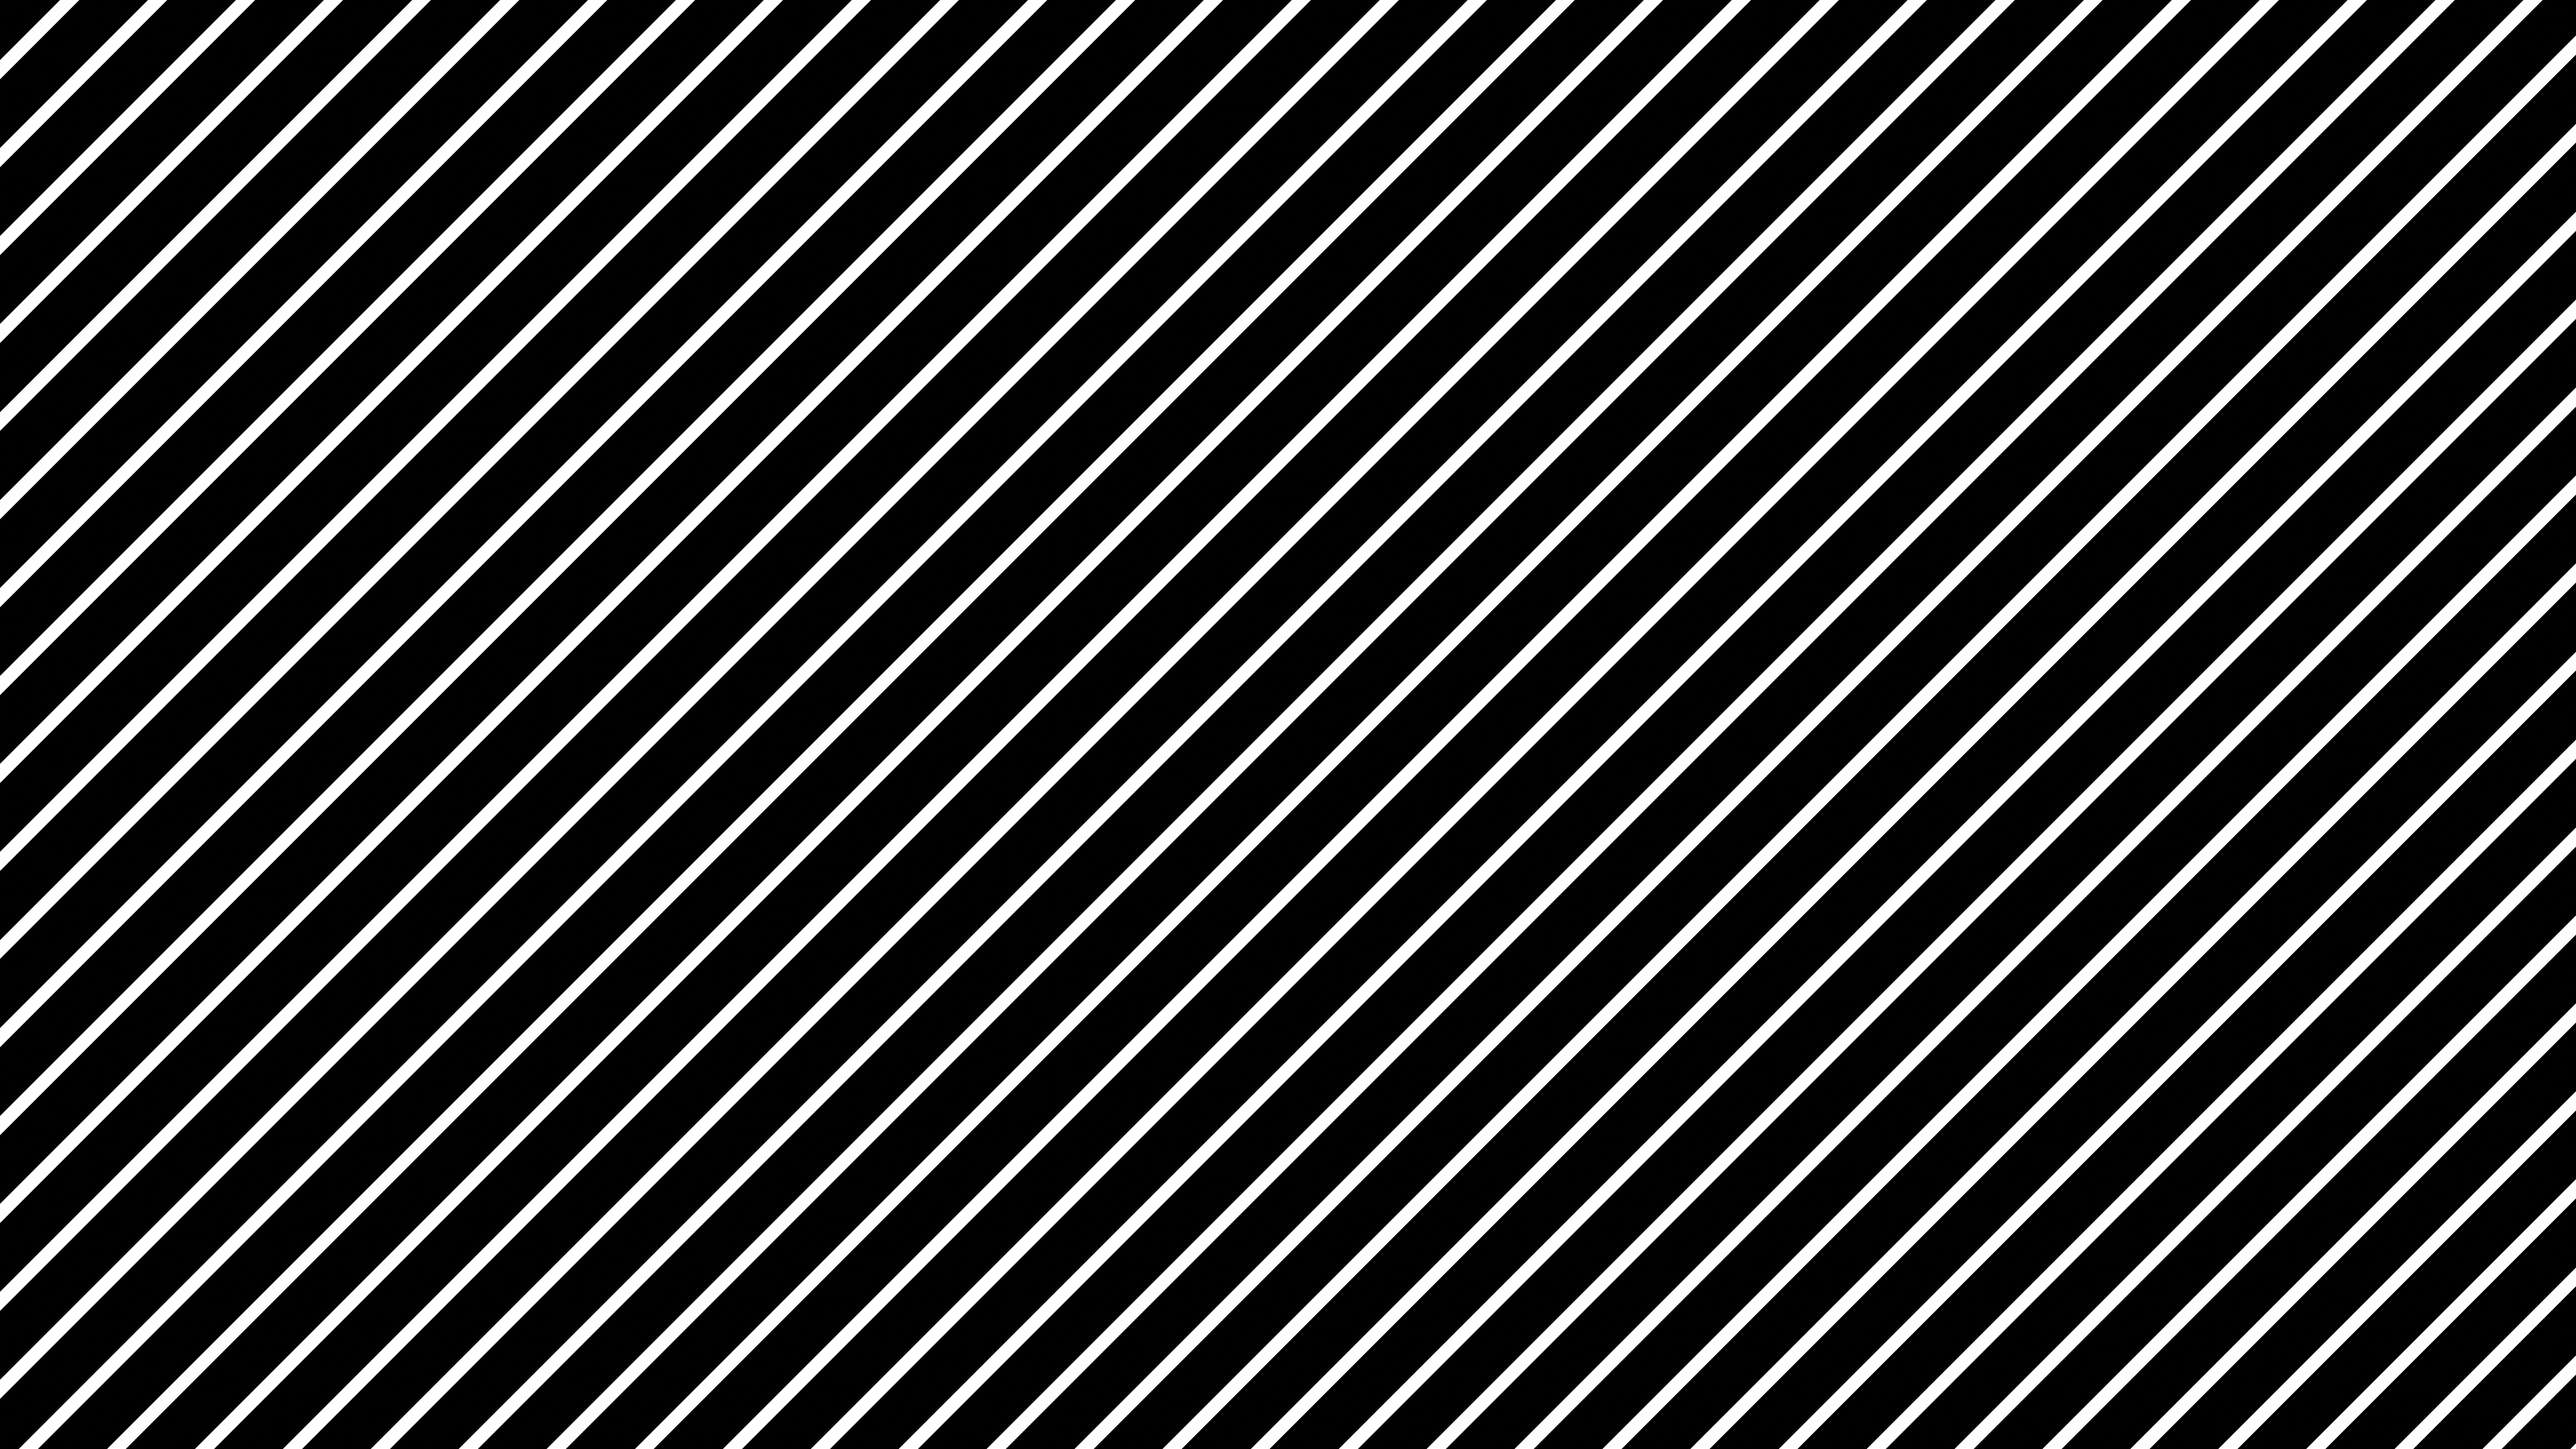
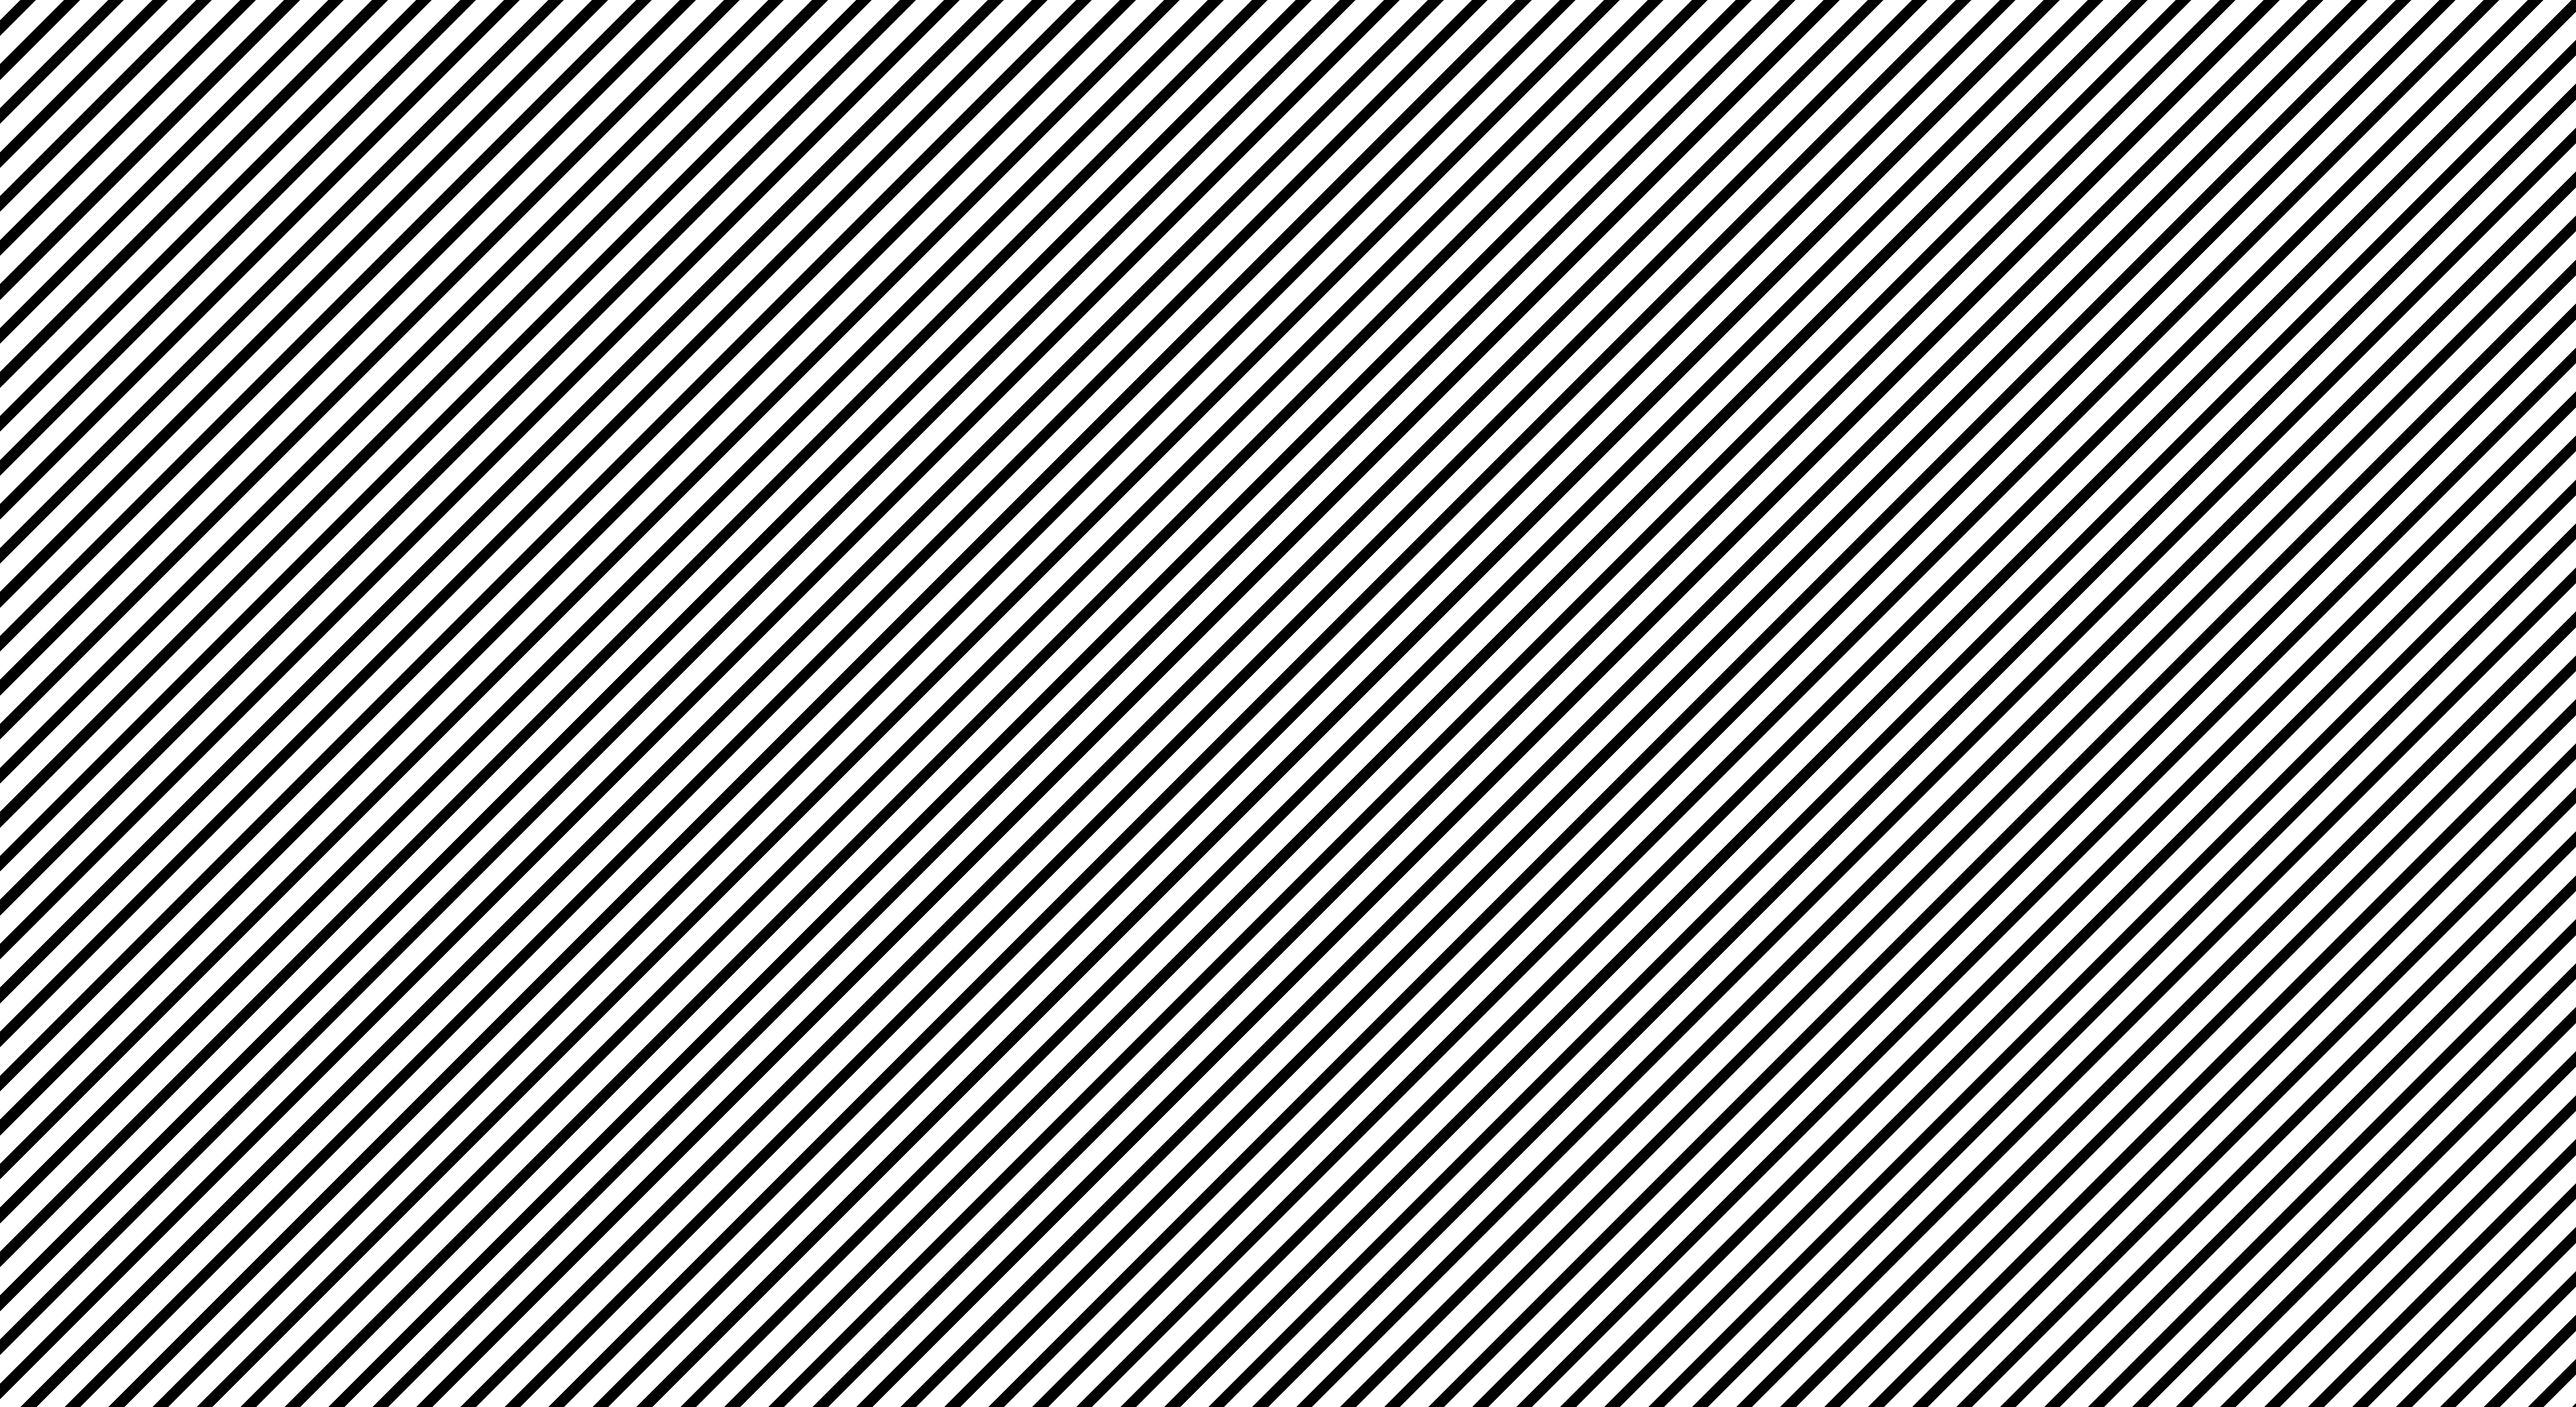
background fix

diff --git a/style.css b/style.css
@@ -87,9 +87,7 @@ nav ul li {
 
 body {
   color: #fff;
-  background-color: #943DFF;
   background-image: url("assets/page/stripes2.png");
-  background-blend-mode: multiply;
   background-size: 300%%;
   background-repeat: repeat;
 }
